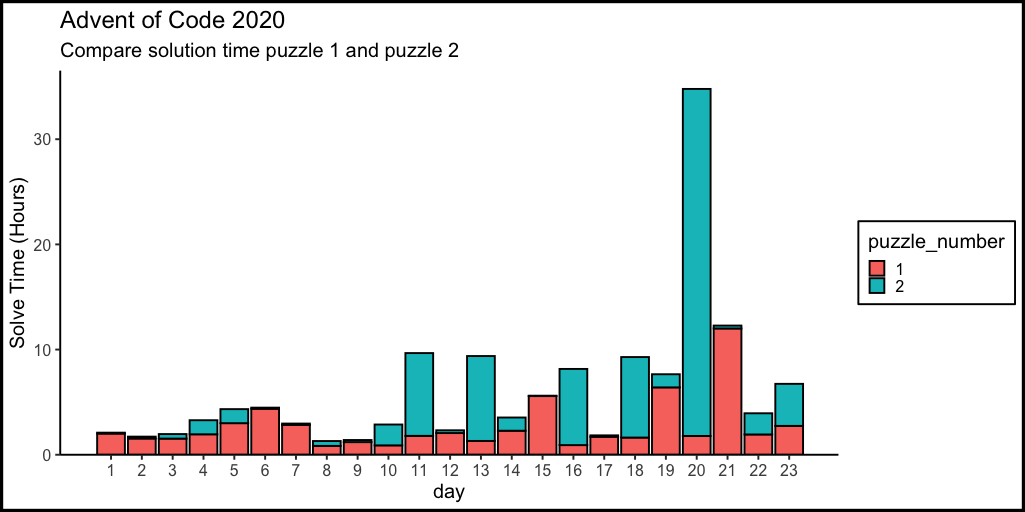
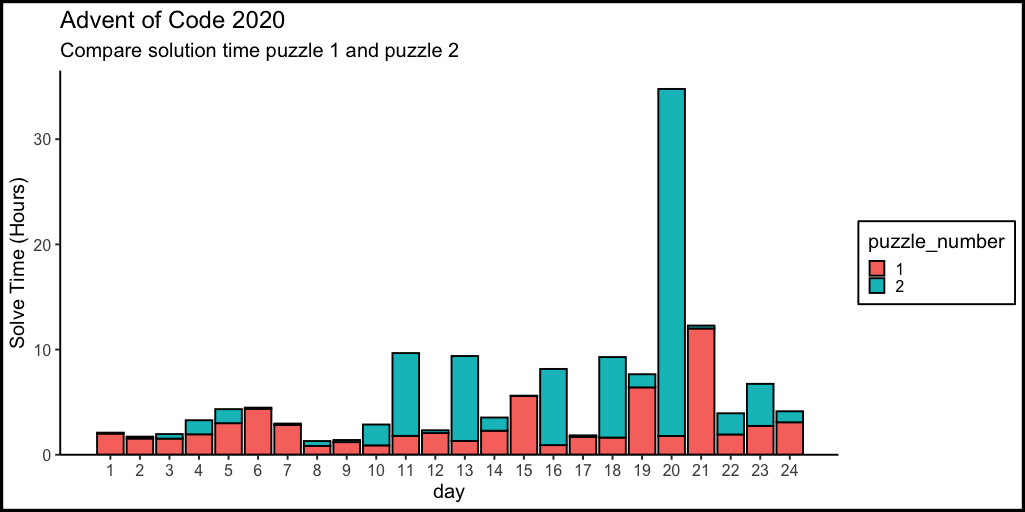
day 24 done

Changed region(s): [[0.0937, 0.1562, 0.8117, 0.9375]]

diff --git a/day24/day_24.go b/day24/day_24.go
@@ -1,0 +1,226 @@
+package main
+
+import (
+	"bufio"
+	"fmt"
+	"os"
+	"strings"
+)
+
+type Coord struct {
+	x, y int
+}
+
+// matchToCoordinate loops through a list of directions and returns the final
+// coordinate as a Coord.
+func matchToCoordinate(l []string) Coord {
+	x := 0
+	y := 0
+	for _, d := range l {
+		switch d {
+		case "e":
+			x++
+		case "w":
+			x--
+		case "ne":
+			y++
+		case "nw":
+			x--
+			y++
+		case "se":
+			x++
+			y--
+		case "sw":
+			y--
+		}
+	}
+	return Coord{x, y}
+}
+
+// readTiles reads the input line by line, gets the coordinate and reverses the bool in
+// a map[Coord]bool to simulate flipping tiles.
+func readTiles(s *bufio.Scanner) map[Coord]bool {
+
+	pointList := make(map[Coord]bool)
+
+	for s.Scan() {
+		r := strings.Trim(s.Text(), "\n")
+
+		// Split the text, first try a two character solution, if the does not fit. Take a
+		// single character
+		var l []string
+		for len(r) > 1 {
+			long := r[:2]
+			if long == "se" || long == "sw" || long == "ne" || long == "nw" {
+				l = append(l, long)
+				r = r[2:]
+			} else {
+				l = append(l, string(r[0]))
+				r = r[1:]
+			}
+		}
+
+		// Include the final character
+		if len(r) == 1 {
+			l = append(l, r)
+		}
+
+		// Calculate the coordinate this instruction points to
+		c := matchToCoordinate(l)
+		pointList[c] = !pointList[c]
+	}
+
+	if err := s.Err(); err != nil {
+		panic(err)
+	}
+
+	return pointList
+}
+
+// tileFloor is the answer to pt. 1. We parse the file to a map[Coord]bool and then
+// count the number of true's in the map.
+func tileFloor(s *bufio.Scanner) (sum int) {
+	l := readTiles(s)
+	sum = 0
+	for _, v := range l {
+		if v {
+			sum++
+		}
+	}
+	return
+}
+
+// getMinMax finds the min and max x's and y's and returns them decremented by 1
+func getMinMax(m map[Coord]bool) (int, int, int, int) {
+	minX, minY := 1000000, 1000000
+	maxX, maxY := -1000000, -1000000
+	for c := range m {
+		if c.x < minX {
+			minX = c.x
+		}
+		if c.x > maxX {
+			maxX = c.x
+		}
+
+		if c.y < minY {
+			minY = c.y
+		}
+
+		if c.y > maxY {
+			maxY = c.y
+		}
+	}
+	return minX - 1, maxX + 1, minY - 1, maxY + 1
+	//return minX, maxX, minY, maxY
+}
+
+// createPossibleCoordinates creates a list of coordinates to check for neighbours in
+// this hexagonal game of life.
+func createPossibleCoordinates(m map[Coord]bool) []Coord {
+	minX, maxX, minY, maxY := getMinMax(m) // get mins and maxes
+	var l []Coord
+	// create all possible coordinates
+	for x := minX; x < maxX+1; x++ {
+		for y := minY; y < maxY+1; y++ {
+			l = append(l, Coord{x, y})
+		}
+	}
+	return l
+}
+
+func countNeighbours(c Coord, m map[Coord]bool) int {
+	// create neighbours
+	ns := []Coord{
+		{c.x + 1, c.y},
+		{c.x - 1, c.y},
+		{c.x, c.y + 1},
+		{c.x - 1, c.y + 1},
+		{c.x + 1, c.y - 1},
+		{c.x, c.y - 1},
+	}
+
+	cnt := 0
+	for _, n := range ns {
+
+		// check if neighbour is in our map
+		b, found := m[n]
+
+		// if not, it is white and we increment
+		if !found {
+			cnt++
+		}
+
+		// if we found it and b is false we increment
+		if found && !b {
+			cnt++
+		}
+
+	}
+	return cnt
+}
+
+func simulateTiles(s *bufio.Scanner) int {
+	m := readTiles(s) // read day0 tiles
+
+	// 2. Per possible coordinate:
+	// 			- count white neighbours, black neighhbours = 6 - white
+	// 			- flip tile accordingly and write into new board
+	// 3. overwrite current board with new board
+
+	i := 0
+	for i < 100 {
+		newTiles := make(map[Coord]bool)
+		coordList := createPossibleCoordinates(m)
+		for _, c := range coordList {
+
+			// - if c is not in m it is white
+			// - if m[c] = false it is white
+			black := false
+			if v, ok := m[c]; ok {
+				black = v
+			}
+
+			// Count white neighbours and subtract that from 6 to get the number of black
+			// neightbours.
+			n := 6 - countNeighbours(c, m)
+
+			if black && (n == 0 || n > 2) {
+				newTiles[c] = false
+			} else if !black && n == 2 {
+				newTiles[c] = true
+			} else {
+				newTiles[c] = m[c]
+			}
+
+		}
+
+		m = newTiles
+		i++
+	}
+
+	sum := 0
+	for _, t := range m {
+		if t {
+			sum++
+		}
+	}
+
+	return sum
+}
+
+func main() {
+	part2 := true
+	file, err := os.Open("data_24.txt")
+	if err != nil {
+		panic(err)
+	}
+	defer file.Close()
+	scanner := bufio.NewScanner(file)
+	if !part2 {
+		n := tileFloor(scanner)
+		fmt.Println("Day 24-1:", n)
+	} else {
+		n := simulateTiles(scanner)
+		fmt.Println("Day 24-2:", n)
+	}
+}

diff --git a/day24/day_24_test.go b/day24/day_24_test.go
@@ -1,0 +1,112 @@
+package main
+
+import (
+	"bufio"
+	"reflect"
+	"strings"
+	"testing"
+)
+
+const example1 = `sesenwnenenewseeswwswswwnenewsewsw
+neeenesenwnwwswnenewnwwsewnenwseswesw
+seswneswswsenwwnwse
+nwnwneseeswswnenewneswwnewseswneseene
+swweswneswnenwsewnwneneseenw
+eesenwseswswnenwswnwnwsewwnwsene
+sewnenenenesenwsewnenwwwse
+wenwwweseeeweswwwnwwe
+wsweesenenewnwwnwsenewsenwwsesesenwne
+neeswseenwwswnwswswnw
+nenwswwsewswnenenewsenwsenwnesesenew
+enewnwewneswsewnwswenweswnenwsenwsw
+sweneswneswneneenwnewenewwneswswnese
+swwesenesewenwneswnwwneseswwne
+enesenwswwswneneswsenwnewswseenwsese
+wnwnesenesenenwwnenwsewesewsesesew
+nenewswnwewswnenesenwnesewesw
+eneswnwswnwsenenwnwnwwseeswneewsenese
+neswnwewnwnwseenwseesewsenwsweewe
+wseweeenwnesenwwwswnew
+`
+
+func createScanner(c string) *bufio.Scanner {
+	r := strings.NewReader(c)
+	return bufio.NewScanner(r)
+}
+
+func Test_tileFloor(t *testing.T) {
+	type args struct {
+		s *bufio.Scanner
+	}
+	tests := []struct {
+		name string
+		args args
+		want int
+	}{
+		{
+			name: "Example 1",
+			args: args{createScanner(example1)},
+			want: 10,
+		},
+	}
+	for _, tt := range tests {
+		t.Run(tt.name, func(t *testing.T) {
+			if got := tileFloor(tt.args.s); got != tt.want {
+				t.Errorf("tileFloor() = %v, want %v", got, tt.want)
+			}
+		})
+	}
+}
+
+func Test_matchToCoordinate(t *testing.T) {
+	type args struct {
+		l []string
+	}
+	tests := []struct {
+		name string
+		args args
+		want Coord
+	}{
+		{
+			name: "test coordinates",
+			args: args{[]string{"nw", "w", "sw", "e", "e"}},
+			want: Coord{0, 0},
+		},
+		{
+			name: "test coordinates",
+			args: args{[]string{"e", "se", "w"}},
+			want: Coord{1, -1},
+		},
+	}
+	for _, tt := range tests {
+		t.Run(tt.name, func(t *testing.T) {
+			if got := matchToCoordinate(tt.args.l); !reflect.DeepEqual(got, tt.want) {
+				t.Errorf("matchToCoordinate() = %v, want %v", got, tt.want)
+			}
+		})
+	}
+}
+
+func Test_simulateTiles(t *testing.T) {
+	type args struct {
+		s *bufio.Scanner
+	}
+	tests := []struct {
+		name string
+		args args
+		want int
+	}{
+		{
+			name: "Example 2",
+			args: args{createScanner(example1)},
+			want: 2208,
+		},
+	}
+	for _, tt := range tests {
+		t.Run(tt.name, func(t *testing.T) {
+			if got := simulateTiles(tt.args.s); got != tt.want {
+				t.Errorf("simulateTiles() = %v, want %v", got, tt.want)
+			}
+		})
+	}
+}
